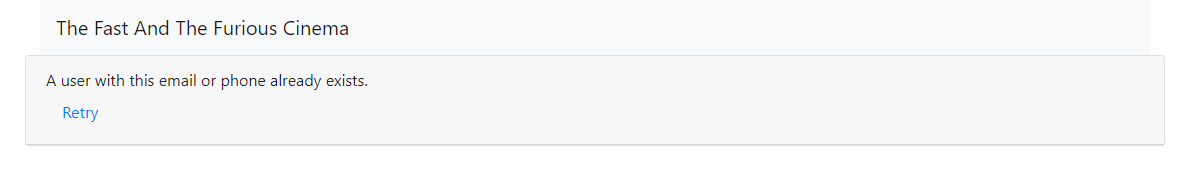
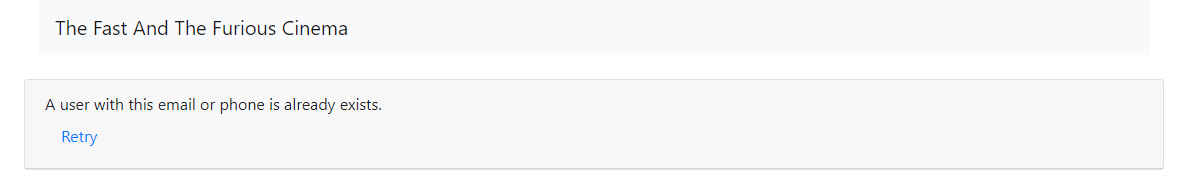
Fixed exterior design, any screenshots changed

diff --git a/src/main/resources/templates/user/profile.html b/src/main/resources/templates/user/profile.html
@@ -16,7 +16,7 @@
     <link rel="stylesheet" href="https://cdnjs.cloudflare.com/ajax/libs/font-awesome/4.7.0/css/font-awesome.min.css">
     <title>The Fast And The Furious Cinema</title>
 </head>
-<body th:background="@{/images/bg.jpg}" th:width="1920">
+<body th:background="@{/images/bg_cinema.jpg}" th:width="1920">
 
 <div class="container">
     <nav class="navbar navbar-expand-lg navbar-light bg-light">
@@ -40,28 +40,38 @@
             </div>
         </div>
     </nav>
-    <div class="row">
-        <table class="table">
-            <thead>
-            <tr>
-                <th scope="col">Name</th>
-                <th scope="col">Email</th>
-                <th scope="col">Phone</th>
-            </tr>
-            </thead>
-            <tbody>
-            <tr>
-                <td>
-                    <a th:href="@{|/updateProfile/${user.userId}|}">
-                        <i class="fa fa-edit"></i>
-                    </a>
-                    <span th:text="${user.name}"></span>
-                <td th:text="${user.email}"/>
-                <td th:text="${user.phone}"/>
-                </td>
-            </tr>
-            </tbody>
-        </table>
+    <br/>
+    <br/>
+    <h2 align="center">Your profile:</h2>
+    <br/>
+    <div class="container pt-3">
+        <div class="row">
+            <div class="card" style="width: 100%">
+                <div class="card-body">
+                    <table class="table">
+                        <thead>
+                        <tr>
+                            <th scope="col">Name</th>
+                            <th scope="col">Email</th>
+                            <th scope="col">Phone</th>
+                        </tr>
+                        </thead>
+                        <tbody>
+                        <tr>
+                            <td>
+                                <a th:href="@{|/updateProfile/${user.userId}|}">
+                                    <i class="fa fa-edit"></i>
+                                </a>
+                                <span th:text="${user.name}"></span>
+                            <td th:text="${user.email}"/>
+                            <td th:text="${user.phone}"/>
+                            </td>
+                        </tr>
+                        </tbody>
+                    </table>
+                </div>
+            </div>
+        </div>
     </div>
 </div>
 </body>

diff --git a/src/main/resources/templates/error/fail.html b/src/main/resources/templates/error/fail.html
@@ -17,7 +17,7 @@
 
     <title>The Fast And The Furious Cinema</title>
 </head>
-<body th:background="@{/images/bg.jpg}" th:width="1920">
+<body th:background="@{/images/bg_cinema.jpg}" th:width="1920">
 <div class="container">
     <nav class="navbar navbar-expand-lg navbar-light bg-light">
         <a class="navbar-brand" th:href="@{/index}">The Fast And The Furious Cinema</a>
@@ -25,10 +25,11 @@
             <span class="navbar-toggler-icon"></span>
         </button>
     </nav>
+    <br/>
     <div class="row">
         <div class="card" style="width: 100%">
             <div class="card-header">
-                A user with this email or phone already exists.
+                A user with this email or phone is already exists.
                 <a class="nav-item nav-link" th:href="@{/formAddUser}">Retry</a>
             </div>
         </div>

diff --git a/src/main/resources/templates/success.html b/src/main/resources/templates/success.html
@@ -17,7 +17,7 @@
 
     <title>The Fast And The Furious Cinema</title>
 </head>
-<body th:background="@{/images/bg.jpg}" th:width="1920">
+<body th:background="@{/images/bg_cinema.jpg}" th:width="1920">
 <div class="container">
     <nav class="navbar navbar-expand-lg navbar-light bg-light">
         <a class="navbar-brand" th:href="@{/index}">The Fast And The Furious Cinema</a>
@@ -25,10 +25,11 @@
             <span class="navbar-toggler-icon"></span>
         </button>
     </nav>
+    <br/>
     <div class="row">
         <div class="card" style="width: 100%">
             <div class="card-header">
-                Successfully signed up!
+                You are successfully signed up!
                 <a class="nav-item nav-link" th:href="@{/index}">Continue</a>
             </div>
         </div>

diff --git a/src/main/resources/templates/index.html b/src/main/resources/templates/index.html
@@ -17,7 +17,7 @@
 
     <title>The Fast And The Furious Cinema</title>
 </head>
-<body th:background="@{/images/bg.jpg}" th:width="1920">
+<body th:background="@{/images/bg_cinema.jpg}" th:width="1920">
 
 <div class="container">
     <nav class="navbar navbar-expand-lg navbar-light bg-light">
@@ -47,7 +47,7 @@
     <br/>
     <div class="vertical-center">
         <form th:action="@{/sessions}" method="GET" th:align="center">
-            <button type="submit" class="btn btn-primary">Go to movie selection.</button>
+            <button type="submit" class="btn btn-primary">Go to movie selection</button>
         </form>
     </div>
 </div>

diff --git a/src/main/resources/templates/user/addUser.html b/src/main/resources/templates/user/addUser.html
@@ -17,7 +17,7 @@
 
     <title>The Fast And The Furious Cinema</title>
 </head>
-<body th:background="@{/images/bg.jpg}" th:width="1920">
+<body th:background="@{/images/bg_cinema.jpg}" th:width="1920">
 <div class="container">
     <nav class="navbar navbar-expand-lg navbar-light bg-light">
         <a class="navbar-brand" th:href="@{/index}">The Fast And The Furious Cinema</a>
@@ -26,6 +26,7 @@
             <span class="navbar-toggler-icon"></span>
         </button>
     </nav>
+    <br/>
     <div class="row">
         <div class="card" style="width: 100%">
             <div class="card-header">

diff --git a/src/main/resources/templates/error/orderFail.html b/src/main/resources/templates/error/orderFail.html
@@ -17,7 +17,7 @@
 
     <title>The Fast And The Furious Cinema</title>
 </head>
-<body th:background="@{/images/bg.jpg}" th:width="1920">
+<body th:background="@{/images/bg_cinema.jpg}" th:width="1920">
 <div class="container">
     <nav class="navbar navbar-expand-lg navbar-light bg-light">
         <a class="navbar-brand" th:href="@{/index}">The Fast And The Furious Cinema</a>

diff --git a/src/main/resources/templates/login.html b/src/main/resources/templates/login.html
@@ -17,7 +17,7 @@
 
     <title>The Fast And The Furious Cinema</title>
 </head>
-<body th:background="@{/images/bg.jpg}" th:width="1920">
+<body th:background="@{/images/bg_cinema.jpg}" th:width="1920">
 <div class="container">
     <nav class="navbar navbar-expand-lg navbar-light bg-light">
         <a class="navbar-brand" th:href="@{/index}">The Fast And The Furious Cinema</a>

diff --git a/src/main/resources/templates/ticket/orderedTicket.html b/src/main/resources/templates/ticket/orderedTicket.html
@@ -17,7 +17,7 @@
 
     <title>The Fast And The Furious Cinema</title>
 </head>
-<body th:background="@{/images/bg.jpg}" th:width="1920">
+<body th:background="@{/images/bg_cinema.jpg}" th:width="1920">
 <div class="container">
     <nav class="navbar navbar-expand-lg navbar-light bg-light">
         <a class="navbar-brand" th:href="@{/index}">The Fast And The Furious Cinema</a>

diff --git a/src/main/resources/templates/ticket/tickets.html b/src/main/resources/templates/ticket/tickets.html
@@ -17,7 +17,7 @@
 
     <title>The Fast And The Furious Cinema</title>
 </head>
-<body th:background="@{/images/bg.jpg}" th:width="1920">
+<body th:background="@{/images/bg_cinema.jpg}" th:width="1920">
 <div class="container">
     <nav class="navbar navbar-expand-lg navbar-light bg-light">
         <a class="navbar-brand" th:href="@{/index}">The Fast And The Furious Cinema</a>

diff --git a/src/main/resources/templates/session/sessions.html b/src/main/resources/templates/session/sessions.html
@@ -17,7 +17,7 @@
 
     <title>The Fast And The Furious Cinema</title>
 </head>
-<body th:background="@{/images/bg.jpg}" th:width="1920">
+<body th:background="@{/images/bg_cinema.jpg}" th:width="1920">
 
 <div class="container">
     <nav class="navbar navbar-expand-lg navbar-light bg-light">

diff --git a/src/main/resources/templates/ticket/addTicket.html b/src/main/resources/templates/ticket/addTicket.html
@@ -17,7 +17,7 @@
 
     <title>The Fast And The Furious Cinema</title>
 </head>
-<body th:background="@{/images/bg.jpg}" th:width="1920">
+<body th:background="@{/images/bg_cinema.jpg}" th:width="1920">
 
 <div class="container">
     <nav class="navbar navbar-expand-lg navbar-light bg-light">

diff --git a/src/main/resources/templates/user/updateProfile.html b/src/main/resources/templates/user/updateProfile.html
@@ -17,7 +17,7 @@
 
     <title>The Fast And The Furious Cinema</title>
 </head>
-<body th:background="@{/images/bg.jpg}" th:width="1920">
+<body th:background="@{/images/bg_cinema.jpg}" th:width="1920">
 
 <div class="container">
     <nav class="navbar navbar-expand-lg navbar-light bg-light">
